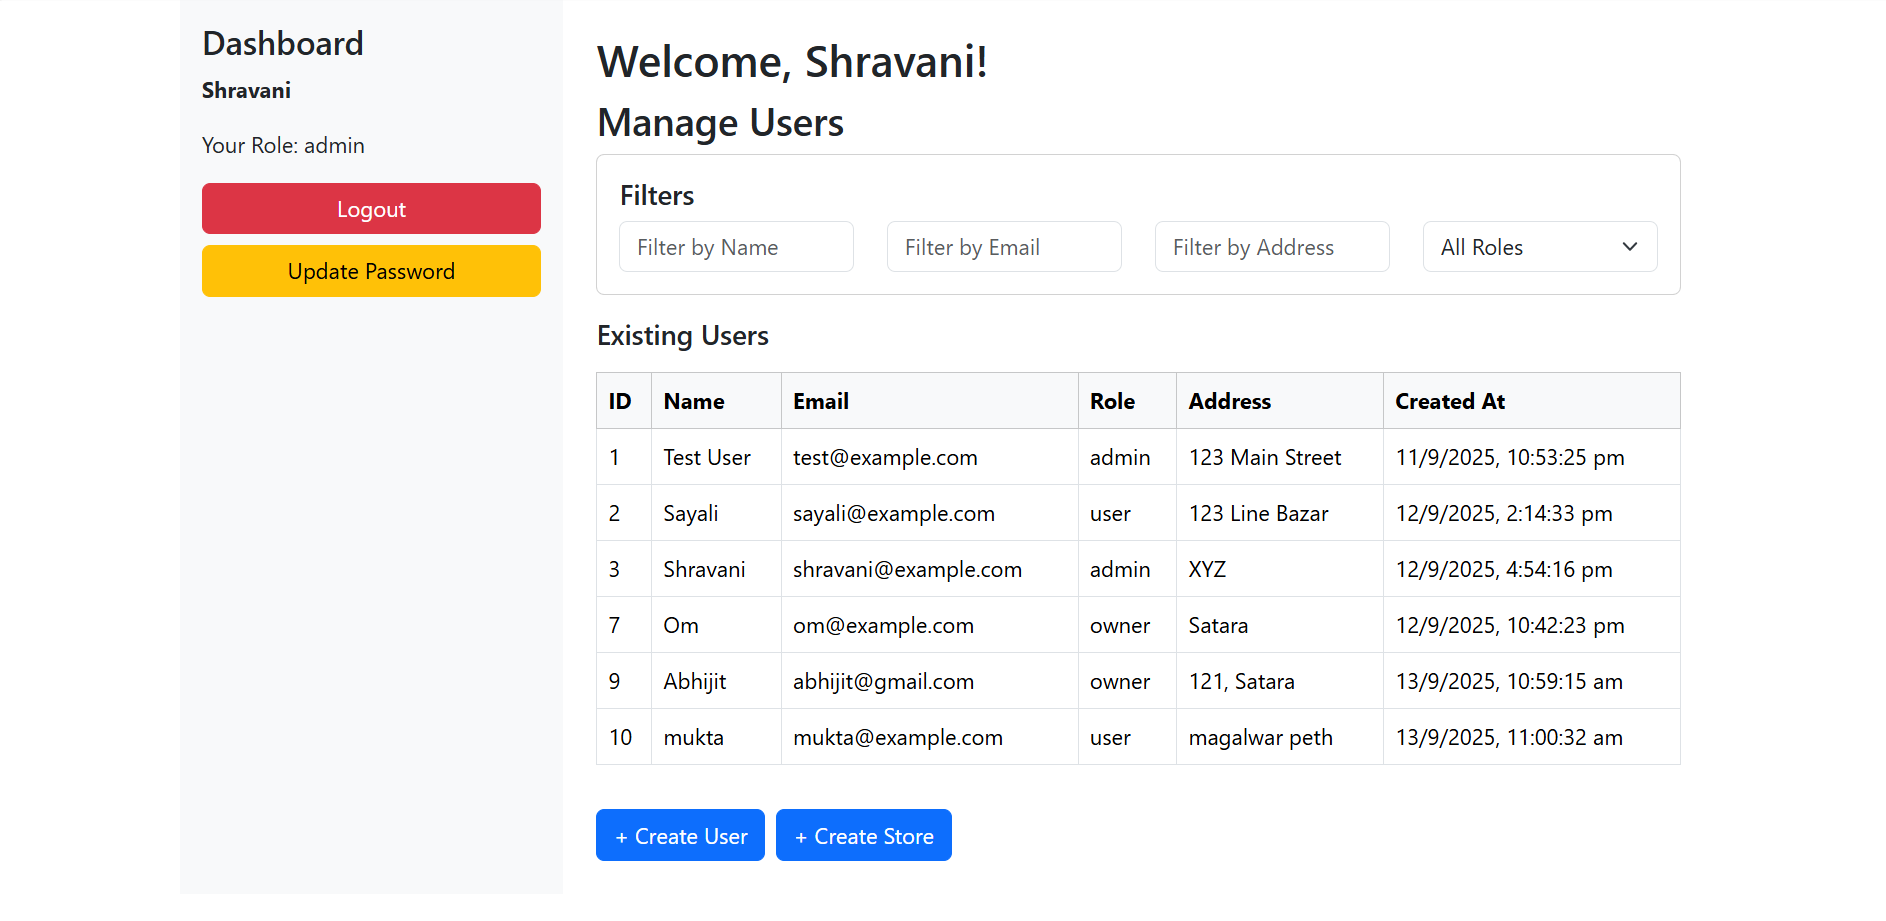
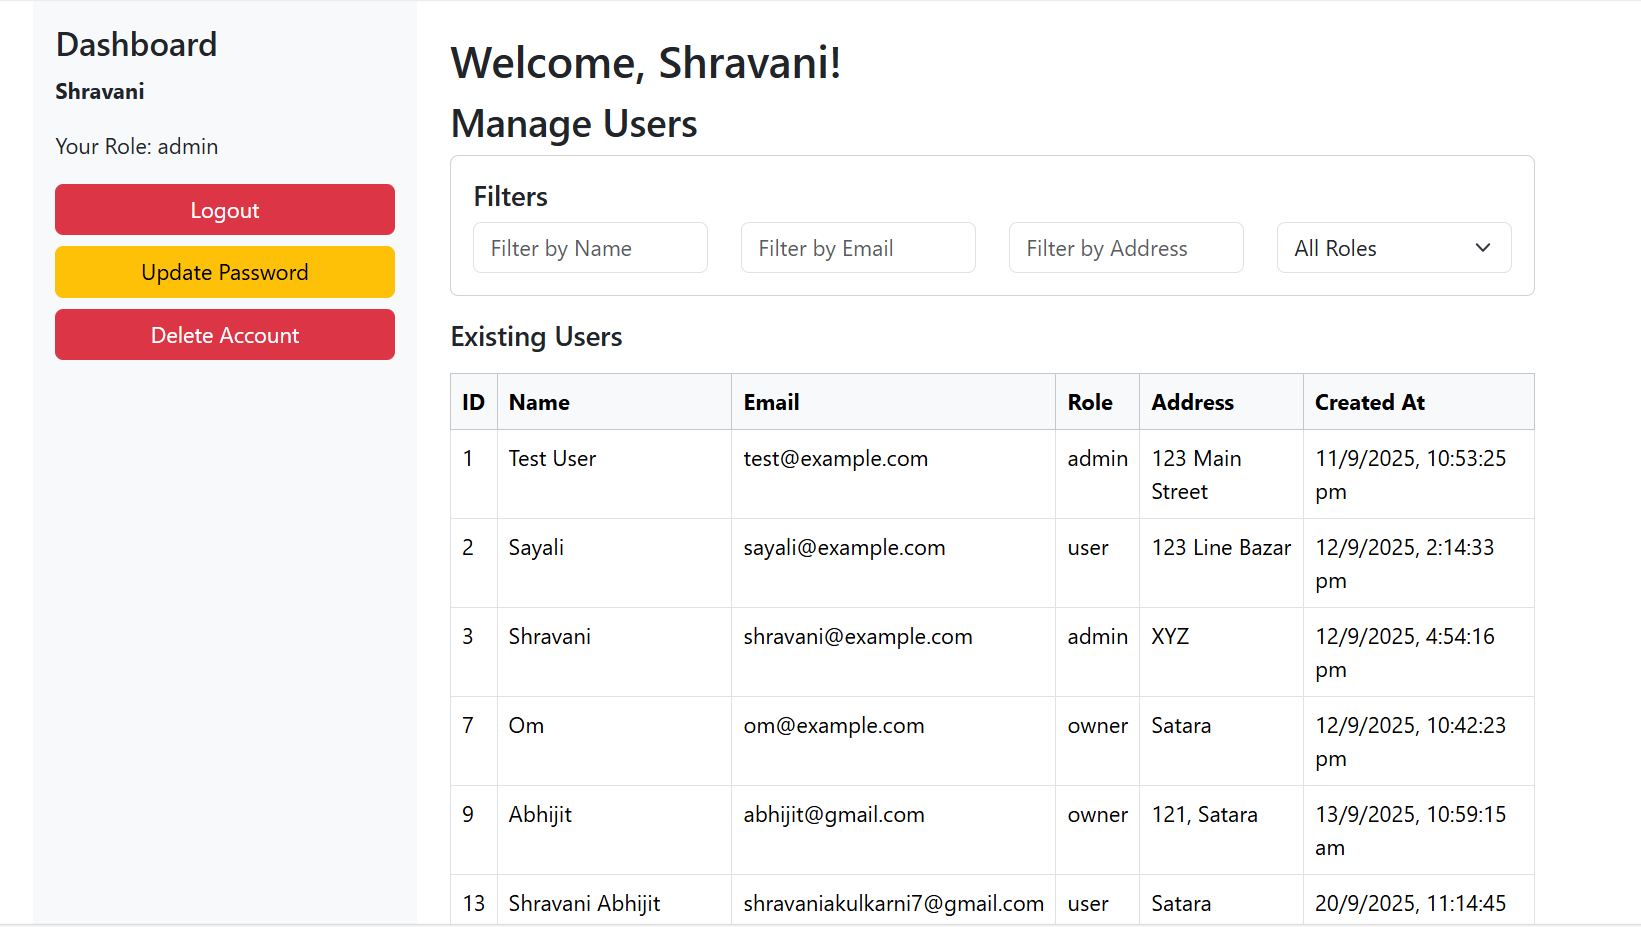
Update reset password, delete account and Screenshots

diff --git a/backend/routes/auth.js b/backend/routes/auth.js
@@ -1,10 +1,11 @@
 const express = require("express");
 const bcrypt = require("bcrypt");
 const jwt = require("jsonwebtoken");
-const { User } = require("../models"); // Sequelize User model
+const { User, PasswordResetToken } = require("../models/index.js"); // Sequelize User model
 const auth = require("../middleware/auth");
 require("dotenv").config();
-
+const crypto = require("crypto");
+const nodemailer = require("nodemailer");
 const router = express.Router();
 
 // Signup (register new user)
@@ -18,7 +19,7 @@ router.post("/signup", async (req, res) => {
     // Only allow "owner" or "user" roles from signup
     let finalRole = "user"; // default
     if (role && ["owner", "user"].includes(role.toLowerCase())) {
-      finalRole = role.toLowerCase(); // ✅ use "role", not "userRole"
+      finalRole = role.toLowerCase(); // use "role", not "userRole"
     }
 
     const newUser = await User.create({
@@ -103,6 +104,106 @@ router.put("/update-password", auth, async (req, res) => {
     user.password = await bcrypt.hash(newPassword, 10);
     await user.save();
     res.json("Password updated successfully");
+  } catch (err) {
+    res.status(500).json({ error: err.message });
+  }
+});
+
+router.post("/forgot-password", async (req, res) => {
+  try {
+    const { email } = req.body;
+    const user = await User.findOne({ where: { email } });
+    if (!user) return res.status(404).json("User not found!");
+
+    //Generate raw token
+    const rawToken = crypto.randomBytes(32).toString("hex");
+    console.log(rawToken);
+
+    //Save hashed token in db
+    const hashedToken = crypto
+      .createHash("sha256")
+      .update(rawToken)
+      .digest("hex");
+
+    await PasswordResetToken.create({
+      userId: user.id,
+      token: hashedToken,
+      expiresAt: new Date(Date.now() + 15 * 60 * 1000), //15 min
+      used: false,
+    });
+    const resetLink = `http://localhost:3000/reset-password/${rawToken}`;
+
+    //Send email
+    const transporter = nodemailer.createTransport({
+      host: "smtp.gmail.com",
+      port: 465,
+      secure: true,
+      auth: {
+        user: process.env.EMAIL_USER,
+        pass: process.env.EMAIL_PASS,
+      },
+    });
+
+    await transporter.sendMail({
+      from: process.env.EMAIL_USER,
+      to: email,
+      subject: "Password Reset",
+      html: `<p>Click <a href="${resetLink}"> here </a>to reset your password. This link is valid for 15 min only.</p>`,
+    });
+
+    res.json({ message: "Password reset link sent to your email." });
+  } catch (err) {
+    res.status(500).json({ error: err.message });
+  }
+});
+
+router.post("/reset-password/:token", async (req, res) => {
+  try {
+    const { token } = req.params;
+    const { newPassword } = req.body;
+
+    //verify token
+    const hashedToken = crypto.createHash("sha256").update(token).digest("hex");
+
+    const resetRecord = await PasswordResetToken.findOne({
+      where: { token: hashedToken },
+    });
+
+    if (!resetRecord) return res.status(400).json({ error: "Invalid token" });
+    if (resetRecord.used)
+      return res.status(400).json({ error: "Token already used" });
+    if (resetRecord.expiresAt < new Date())
+      return res.status(400).json({ error: "Token expired" });
+
+    const user = await User.findByPk(resetRecord.userId);
+    if (!user) return res.status(404).json({ message: "User not found" });
+
+    //Update password
+    const hashedPassword = await bcrypt.hash(newPassword, 10);
+    user.password = hashedPassword;
+    await user.save();
+
+    resetRecord.used = true;
+    await resetRecord.save();
+    console.log("Password reset for user: ", user.email);
+
+    res.json({ message: "Password reset successfully" });
+  } catch (err) {
+    res.status(400).json({ error: "Something went wrong." });
+  }
+});
+
+//Delete an account
+router.delete("/delete-account", auth, async (req, res) => {
+  try {
+    const userId = req.user.id;
+    const user = await User.findByPk(userId);
+
+    if (!user) {
+      return res.status(404).json({ error: "User not found" });
+    }
+    await user.destroy();
+    res.json({ message: "User account deleted successfully" });
   } catch (err) {
     res.status(500).json({ error: err.message });
   }

diff --git a/frontend/src/pages/ForgotPassword.js b/frontend/src/pages/ForgotPassword.js
@@ -1,0 +1,42 @@
+import { useState } from "react";
+import axios from "axios";
+
+export default function ForgotPassword() {
+  const [email, setEmail] = useState("");
+
+  const handleSubmit = async (e) => {
+    e.preventDefault();
+    await axios.post("http://localhost:5000/api/auth/forgot-password", {
+      email,
+    });
+    alert(
+      "If that email is registered on this platform, then you will get the reset password link"
+    );
+  };
+
+  return (
+    <div className="row justify-content-center align-items-center vh-100 bg-light">
+      <div
+        className="card shadow p-4"
+        style={{ width: "400px", borderRadius: "12px" }}
+      >
+        <h2 className="mb-3 text-center">Forgot Password</h2>
+        <form onSubmit={handleSubmit}>
+          <div className="mb-3">
+            <input
+              type="email"
+              placeholder="Registered email"
+              className="form-control"
+              value={email}
+              onChange={(e) => setEmail(e.target.value)}
+              required
+            />
+          </div>
+          <div className="mb-5">
+            <button type="submit">Send Reset Link</button>
+          </div>
+        </form>
+      </div>
+    </div>
+  );
+}

diff --git a/frontend/src/components/Layout.js b/frontend/src/components/Layout.js
@@ -27,6 +27,28 @@ function Layout({ user, onLogout, children }) {
     }
   };
 
+  const handleDeleteAccount = async () => {
+    if (
+      !window.confirm(
+        "Are you sure you want to delete your account? This cannot be undone."
+      )
+    ) {
+      return;
+    }
+    try {
+      const token = localStorage.getItem("token");
+      const res = await axios.delete(
+        "http://localhost:5000/api/auth/delete-account",
+        { headers: { Authorization: `Bearer ${token}` } }
+      );
+      alert(res.data.message || "Account deleted successfully");
+      localStorage.clear();
+      onLogout();
+    } catch (err) {
+      alert(err.response?.data?.error || "Request failed");
+    }
+  };
+
   return (
     <div className="d-flex">
       {/* Sidebar */}
@@ -84,6 +106,15 @@ function Layout({ user, onLogout, children }) {
             </div>
           </form>
         )}
+
+        {/* Delete Account */}
+        <button
+          onClick={handleDeleteAccount}
+          className="btn btn-danger mt-2 w-100"
+        >
+          {" "}
+          Delete Account{" "}
+        </button>
       </div>
 
       {/* Main content */}

diff --git a/backend/migrations/20250919115714-create-password-reset-tokens.js b/backend/migrations/20250919115714-create-password-reset-tokens.js
@@ -1,0 +1,48 @@
+"use strict";
+
+module.exports = {
+  async up(queryInterface, Sequelize) {
+    await queryInterface.createTable("PasswordResetTokens", {
+      id: {
+        type: Sequelize.INTEGER,
+        autoIncrement: true,
+        primaryKey: true,
+      },
+      userId: {
+        type: Sequelize.INTEGER,
+        allowNull: false,
+        references: {
+          model: "Users", // name of your User table
+          key: "id",
+        },
+        onDelete: "CASCADE",
+      },
+      token: {
+        type: Sequelize.STRING,
+        allowNull: false,
+      },
+      expiresAt: {
+        type: Sequelize.DATE,
+        allowNull: false,
+      },
+      used: {
+        type: Sequelize.BOOLEAN,
+        defaultValue: false,
+      },
+      createdAt: {
+        type: Sequelize.DATE,
+        allowNull: false,
+        defaultValue: Sequelize.fn("NOW"),
+      },
+      updatedAt: {
+        type: Sequelize.DATE,
+        allowNull: false,
+        defaultValue: Sequelize.fn("NOW"),
+      },
+    });
+  },
+
+  async down(queryInterface, Sequelize) {
+    await queryInterface.dropTable("PasswordResetTokens");
+  },
+};

diff --git a/backend/models/PasswordResetToken.js b/backend/models/PasswordResetToken.js
@@ -1,0 +1,37 @@
+"use strict";
+const { Model } = require("sequelize");
+
+module.exports = (sequelize, DataTypes) => {
+  class PasswordResetToken extends Model {
+    static associate(models) {
+      PasswordResetToken.belongsTo(models.User, { foreignKey: "userId" });
+    }
+  }
+
+  PasswordResetToken.init(
+    {
+      userId: {
+        type: DataTypes.INTEGER,
+        allowNull: false,
+      },
+      token: {
+        type: DataTypes.STRING,
+        allowNull: false,
+      },
+      expiresAt: {
+        type: DataTypes.DATE,
+        allowNull: false,
+      },
+      used: {
+        type: DataTypes.BOOLEAN,
+        defaultValue: false,
+      },
+    },
+    {
+      sequelize,
+      modelName: "PasswordResetToken",
+    }
+  );
+
+  return PasswordResetToken;
+};
